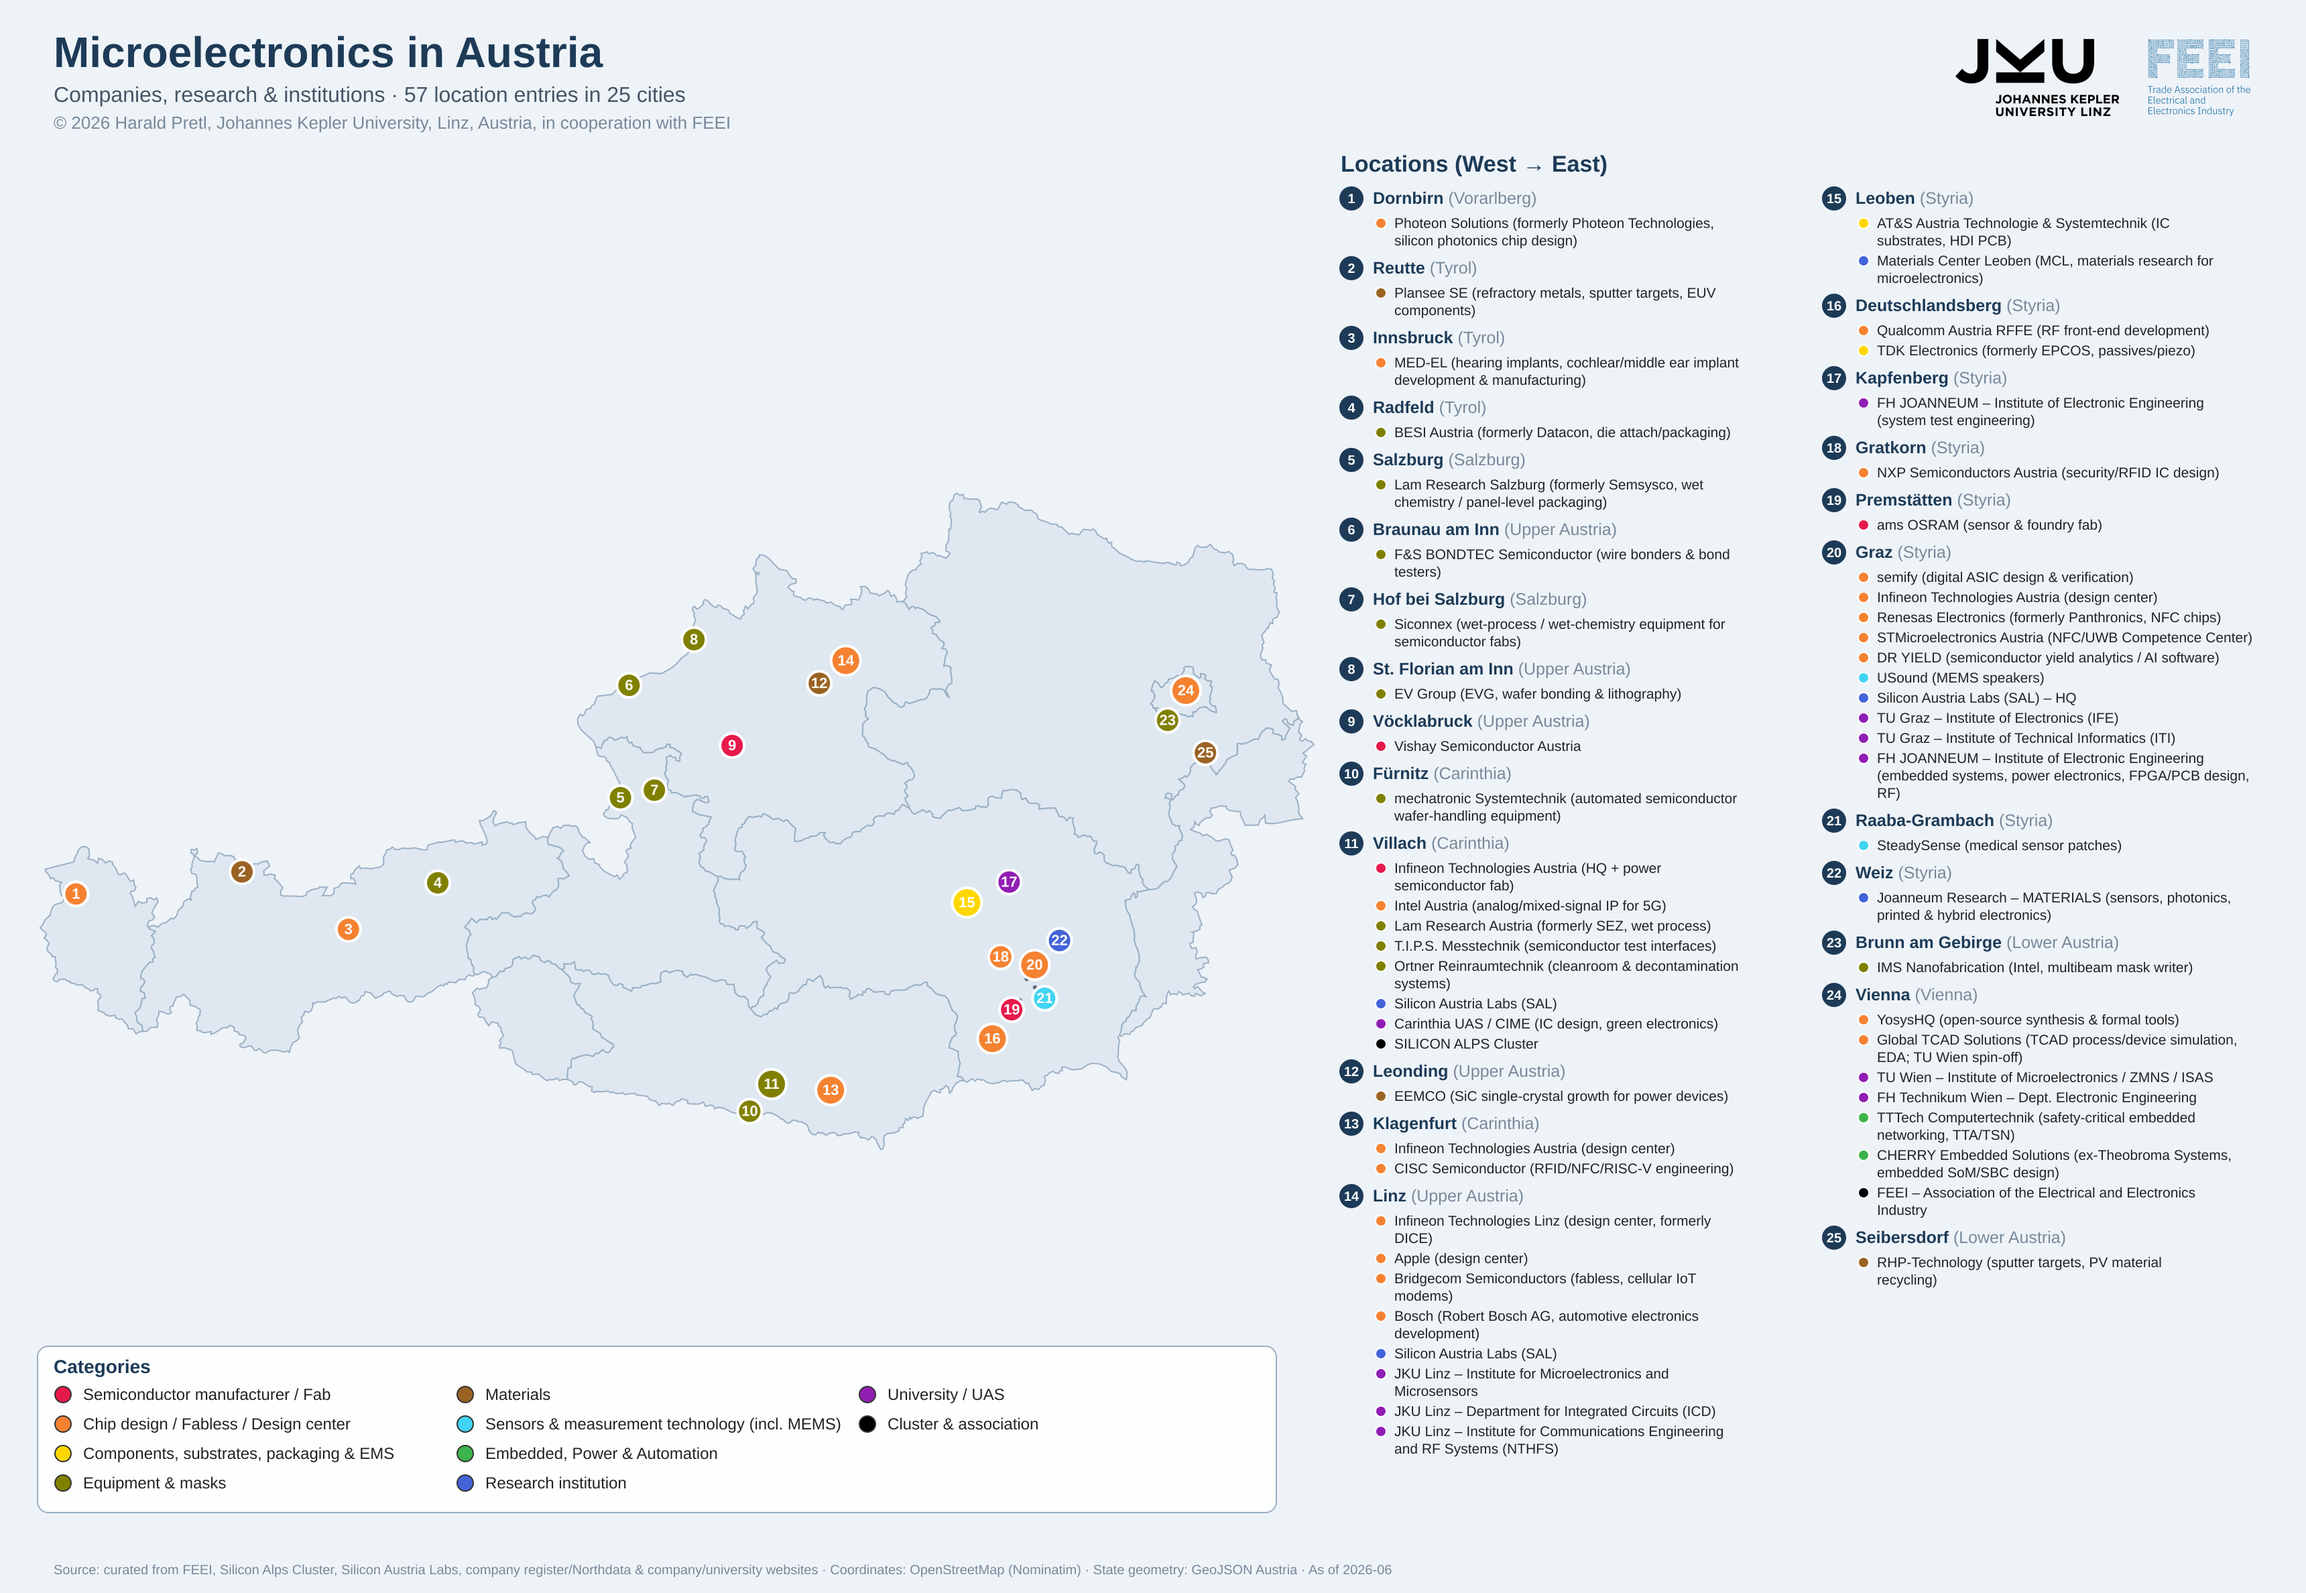
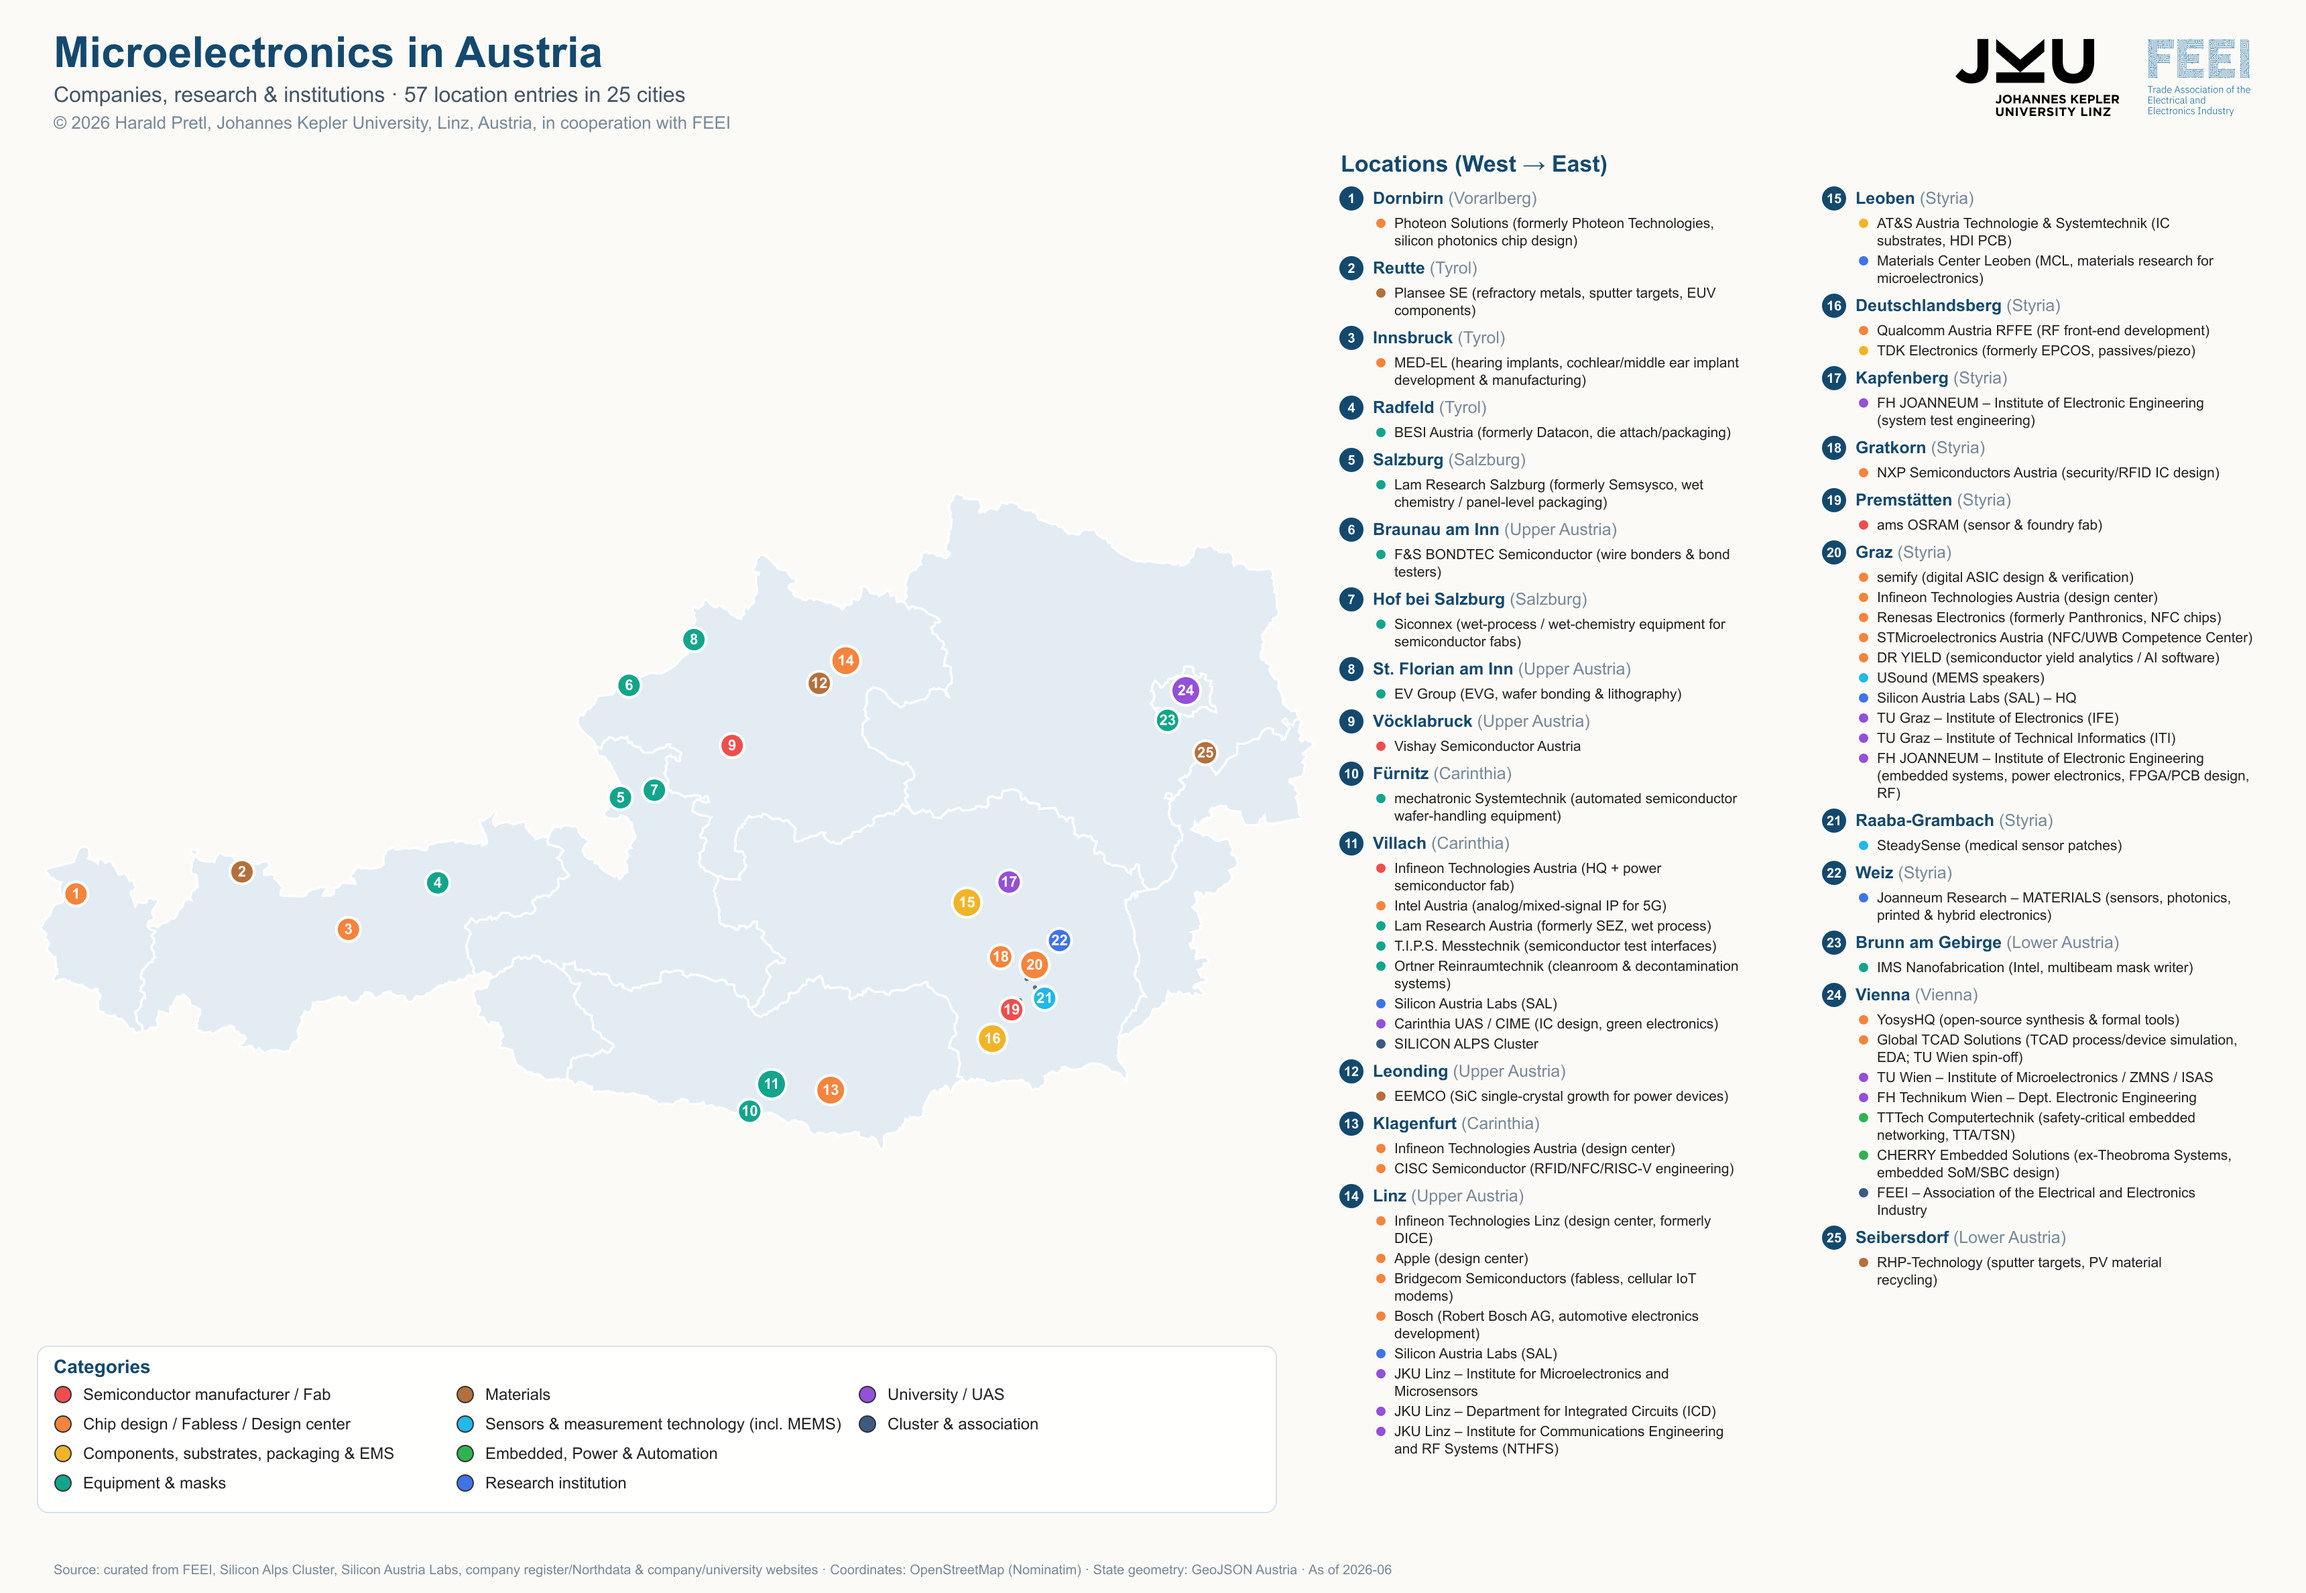
Refresh map color palette

diff --git a/map.html b/map.html
@@ -24,7 +24,8 @@
 <link rel="stylesheet" href="https://unpkg.com/leaflet.markercluster@1.5.3/dist/MarkerCluster.css" crossorigin="" />
 <link rel="stylesheet" href="https://unpkg.com/leaflet.markercluster@1.5.3/dist/MarkerCluster.Default.css" crossorigin="" />
 <style>
-  html, body { margin: 0; height: 100%; font-family: "Segoe UI", Arial, sans-serif; }
+  html, body { margin: 0; height: 100%; background: #fbfaf6;
+                 font-family: "Segoe UI", Arial, sans-serif; }
   #map { position: absolute; inset: 0; }
   .title {
     position: absolute; top: 12px; left: 50px; z-index: 1000;
@@ -40,18 +41,19 @@
   .legend .row { cursor: pointer; user-select: none; }
   .legend .row.off { opacity: .35; text-decoration: line-through; }
   .legend i { width: 12px; height: 12px; display:inline-block; margin-right: 7px;
-               border-radius: 50%; vertical-align: middle; border: 1px solid #333; }
+               border-radius: 50%; vertical-align: middle; border: 1px solid #94a3b4; }
   .leaflet-popup-content { font-size: 13px; }
   .leaflet-popup-content b { font-size: 14px; }
-  /* Render the basemap in grey so the coloured category markers stand out */
-  .leaflet-tile-pane { filter: grayscale(1) brightness(1.15) contrast(.8); }
+  /* Desaturate and lift the basemap so the coloured category markers stand
+     out, while the terrain keeps a hint of its own colour. */
+  .leaflet-tile-pane { filter: saturate(.25) brightness(1.1); }
   .source-footer {
     position: absolute; bottom: 0; left: 0; z-index: 1000;
     background: rgba(255,255,255,.92); padding: 4px 10px;
     border-top-right-radius: 8px; box-shadow: 0 -1px 4px rgba(0,0,0,.2);
     font-size: 11px; color: #555; max-width: 60%;
   }
-  .source-footer a { color: #1d3b57; }
+  .source-footer a { color: #14496e; }
   .logos {
     position: absolute; top: 12px; right: 12px; z-index: 1000;
     background: rgba(255,255,255,.92); padding: 6px 12px; border-radius: 8px;
@@ -85,7 +87,7 @@
 <script>
   const map = L.map('map', { scrollWheelZoom: true }).setView([47.6, 14.2], 7);
 
-  // Standard OpenStreetMap tiles, greyed out via the .leaflet-tile-pane filter
+  // Standard OpenStreetMap tiles, desaturated via the .leaflet-tile-pane filter
   // above. Keyless; see https://operations.osmfoundation.org/policies/tiles/
   L.tileLayer('https://tile.openstreetmap.org/{z}/{x}/{y}.png', {
     maxZoom: 19,
@@ -112,7 +114,7 @@
     const fs = Math.round(s * 0.45);
     return L.divIcon({
       className: '',
-      html: `<div style="width:${s}px;height:${s}px;border-radius:50%;background:#000;
+      html: `<div style="width:${s}px;height:${s}px;border-radius:50%;background:#3d5a80;
                          border:2px solid #fff;box-shadow:0 1px 5px rgba(0,0,0,.5);
                          color:#fff;font-weight:700;font-size:${fs}px;
                          display:flex;align-items:center;justify-content:center">${n}</div>`,
@@ -123,7 +125,7 @@
   function buildPopup(f) {
     const cat = CATEGORIES[f.category] || { color: '#888', label: f.category };
     const name = f.web
-      ? `<a href="${f.web}" target="_blank" rel="noopener" style="color:#1d3b57">${f.name}</a>`
+      ? `<a href="${f.web}" target="_blank" rel="noopener" style="color:#14496e">${f.name}</a>`
       : f.name;
     const note = f.note ? `<br><i style="color:#a15;font-size:11px">${f.note}</i>` : '';
     return `<b style="font-size:14px">${name}</b>${note}<br>

diff --git a/data.js b/data.js
@@ -31,16 +31,16 @@
  */
 
 window.CATEGORIES = {
-  semiconductor: { label: "Semiconductor manufacturer / Fab",          color: "#e6194B" },
-  design:        { label: "Chip design / Fabless / Design center",     color: "#f58231" },
-  components:    { label: "Components, substrates, packaging & EMS",    color: "#ffd700" },
-  equipment:     { label: "Equipment & masks",                         color: "#808000" },
-  material:      { label: "Materials",                                 color: "#9A6324" },
-  sensors:       { label: "Sensors & measurement technology (incl. MEMS)", color: "#42d4f4" },
-  embedded:      { label: "Embedded, Power & Automation",              color: "#3cb44b" },
-  research:      { label: "Research institution",                      color: "#4363d8" },
-  university:    { label: "University / UAS",                          color: "#911eb4" },
-  cluster:       { label: "Cluster & association",                     color: "#000000" }
+  semiconductor: { label: "Semiconductor manufacturer / Fab",          color: "#ef4d4d" },
+  design:        { label: "Chip design / Fabless / Design center",     color: "#f5843c" },
+  components:    { label: "Components, substrates, packaging & EMS",    color: "#f0b429" },
+  equipment:     { label: "Equipment & masks",                         color: "#12a58c" },
+  material:      { label: "Materials",                                 color: "#b4703c" },
+  sensors:       { label: "Sensors & measurement technology (incl. MEMS)", color: "#22b8e8" },
+  embedded:      { label: "Embedded, Power & Automation",              color: "#2fb350" },
+  research:      { label: "Research institution",                      color: "#3f74e8" },
+  university:    { label: "University / UAS",                          color: "#9450d8" },
+  cluster:       { label: "Cluster & association",                     color: "#3d5a80" }
 };
 
 window.COMPANIES = [

diff --git a/generate_svg.py b/generate_svg.py
@@ -289,8 +289,8 @@ def main():
         f'<svg xmlns="http://www.w3.org/2000/svg" '
         f'xmlns:xlink="http://www.w3.org/1999/xlink" width="{W}" height="{H}" '
         f'viewBox="0 0 {W} {H}" font-family="Arial, Helvetica, sans-serif">',
-        f'<rect width="{W}" height="{H}" fill="#eef3f8"/>',
-        '<g id="bundeslaender" stroke="#9bb0c4" stroke-width="1" fill="#dfe8f1">',
+        f'<rect width="{W}" height="{H}" fill="#fbfaf6"/>',
+        '<g id="bundeslaender" stroke="#ffffff" stroke-width="1.6" fill="#e3ecf3">',
     ]
 
     # state areas
@@ -307,7 +307,7 @@ def main():
 
     # title
     parts.append(
-        f'<text x="40" y="50" font-size="32" font-weight="bold" fill="#1d3b57">'
+        f'<text x="40" y="50" font-size="32" font-weight="bold" fill="#14496e">'
         f'Microelectronics in Austria</text>')
     parts.append(
         f'<text x="40" y="76" font-size="16" fill="#456">'
@@ -366,8 +366,8 @@ def main():
     leg_h = 22 * n_rows + 36
     parts.append(f'<g id="category-legend" transform="translate(40,{H - leg_h - 40})">')
     parts.append(f'<rect x="-12" y="-20" width="{leg_col_w * 3 + 24}" height="{leg_h}" rx="8" '
-                 f'fill="#ffffff" fill-opacity="0.9" stroke="#9bb0c4"/>')
-    parts.append('<text x="0" y="0" font-size="14" font-weight="bold" fill="#1d3b57">Categories</text>')
+                 f'fill="#ffffff" fill-opacity="0.9" stroke="#d8e2ea"/>')
+    parts.append('<text x="0" y="0" font-size="14" font-weight="bold" fill="#14496e">Categories</text>')
     for i, (key, k) in enumerate(cat_items):
         col = i // n_rows
         r = i % n_rows
@@ -381,7 +381,7 @@ def main():
     # legend list on the right: cities (numbered) with companies – multi-column, without splitting a city
     parts.append(f'<g id="list">')
     parts.append(f'<text x="{PANEL_X}" y="128" font-size="17" font-weight="bold" '
-                 f'fill="#1d3b57">Locations (West → East)</text>')
+                 f'fill="#14496e">Locations (West → East)</text>')
     top, bottom = 152, H - 30
     col = 0
     yy = top
@@ -410,10 +410,10 @@ def main():
         n = number[city]
         st = group[0]["state"]
         parts.append(
-            f'<circle cx="{cx + 8}" cy="{yy - 4}" r="9" fill="#1d3b57"/>'
+            f'<circle cx="{cx + 8}" cy="{yy - 4}" r="9" fill="#14496e"/>'
             f'<text x="{cx + 8}" y="{yy - 0.5}" font-size="10" font-weight="bold" fill="#fff" '
             f'text-anchor="middle">{n}</text>'
-            f'<text x="{cx + 24}" y="{yy}" font-size="12.5" font-weight="bold" fill="#1d3b57">'
+            f'<text x="{cx + 24}" y="{yy}" font-size="12.5" font-weight="bold" fill="#14496e">'
             f'{esc(city)} <tspan font-weight="normal" fill="#789">({esc(st)})</tspan></text>')
         yy += 18
         for f in group:
